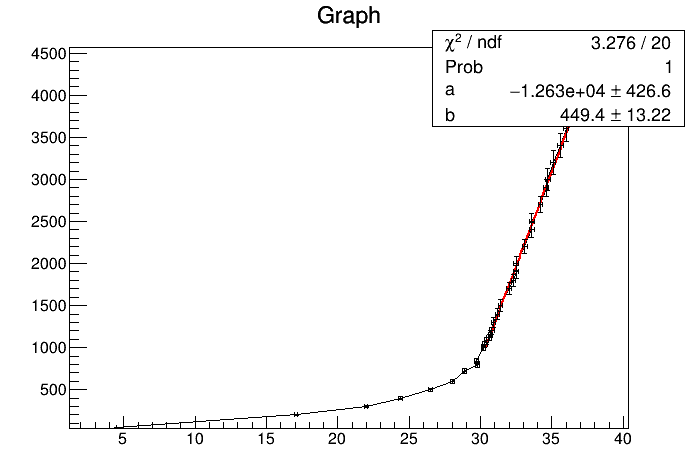
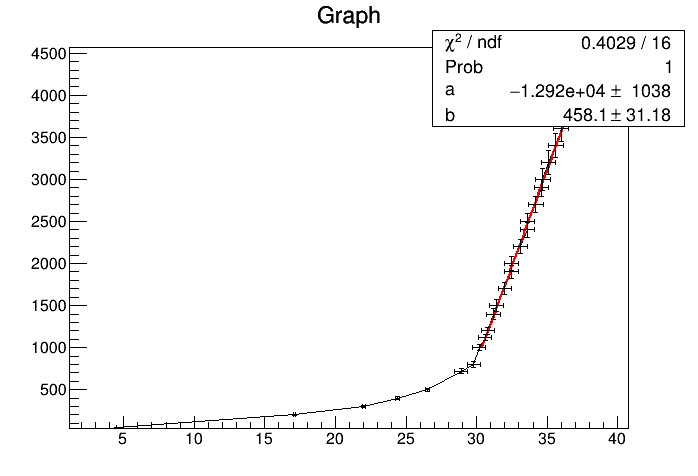
Fixed wrong error evaluation

diff --git a/multiplot.cpp b/multiplot.cpp
@@ -25,6 +25,8 @@ void multiplot() {
   h_100->Fit(fit_100, "R");
   fit_100->SetLineColor(kRed);
   h_100->SetLineColor(kBlue);
+  Double_t I_100_3V = h_100->GetPointY(5);
+  Double_t err_I_100_3V = h_100->GetErrorY(5);
   mgraph->Add(h_100);
 
   TGraphErrors *h_200 = new TGraphErrors("I-V_200.txt", "%lg%lg%lg%lg");
@@ -32,16 +34,22 @@ void multiplot() {
   TF1 *fit_200 = new TF1("200", "[0]+x*[1]", V_min, V_max);
   fit_200->SetLineColor(kGreen);
   h_200->Fit(fit_200, "R");
+  Double_t I_200_3V = h_200->GetPointY(5);
+  Double_t err_I_200_3V = h_200->GetErrorY(5);
   mgraph->Add(h_200);
   mgraph->GetXaxis()->SetTitle("Voltage (mV)");
   mgraph->GetYaxis()->SetTitle("Current (mA)");
   TLegend *t = new TLegend();
   t->SetHeader("Punti sperimentali", "C");
-  t->AddEntry(h_100, "100 #muA");
-  t->AddEntry(h_200, "200 #muA");
+  t->AddEntry(h_100, "I_b = 100 #muA");
+  t->AddEntry(h_200, "I_b = 200 #muA");
   t->AddEntry(fit_100, "Fit lineare a 100 #muA");
   t->AddEntry(fit_200, "Fit lineare a 200 #muA");
 
+  Double_t delta_I = (I_200_3V - I_100_3V) / 0.1;
+  Double_t err_delta_I =
+      ((err_I_200_3V / I_200_3V) + (err_I_100_3V / I_100_3V)) * delta_I;
+  std::cout << '\n' << delta_I << " +- " << err_delta_I << '\n';
   mgraph->Draw("apl");
   t->Draw("SAME");
 }

diff --git a/micro_200.cpp b/micro_200.cpp
@@ -23,7 +23,7 @@ void micro_200() {
   TF1 *fit_grafico = new TF1("200", "[0]+x*[1]", V_min, V_max);
   h_200->Fit(fit_grafico, "R");
   h_200->Draw("ap");
-  c_200->Print("c_200.png", "R");
+  c_200->Print("c_200.png");
 
 
   gStyle->SetOptFit(1111);
